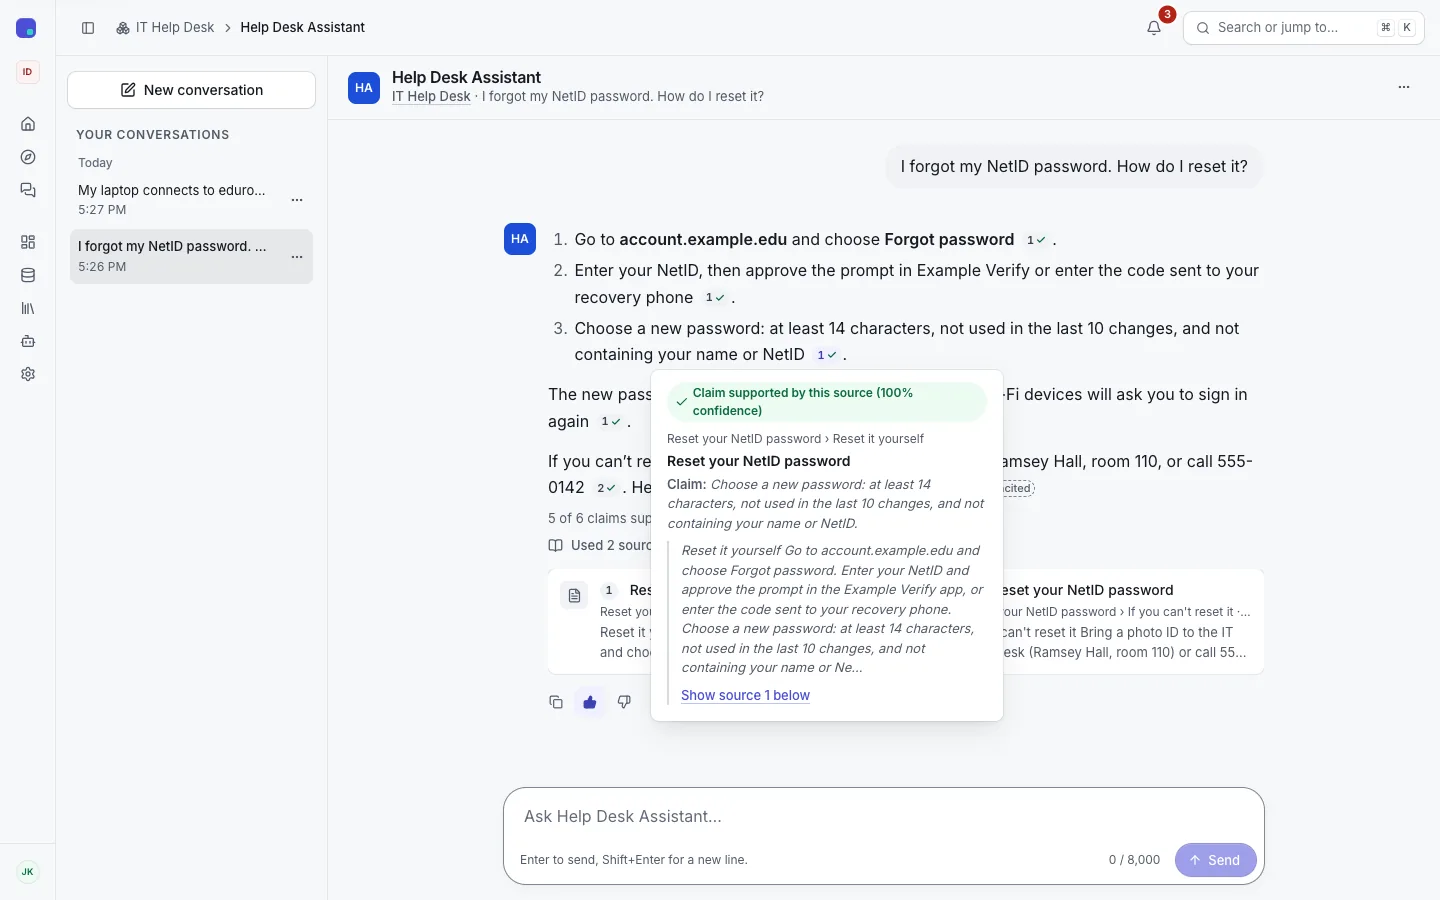
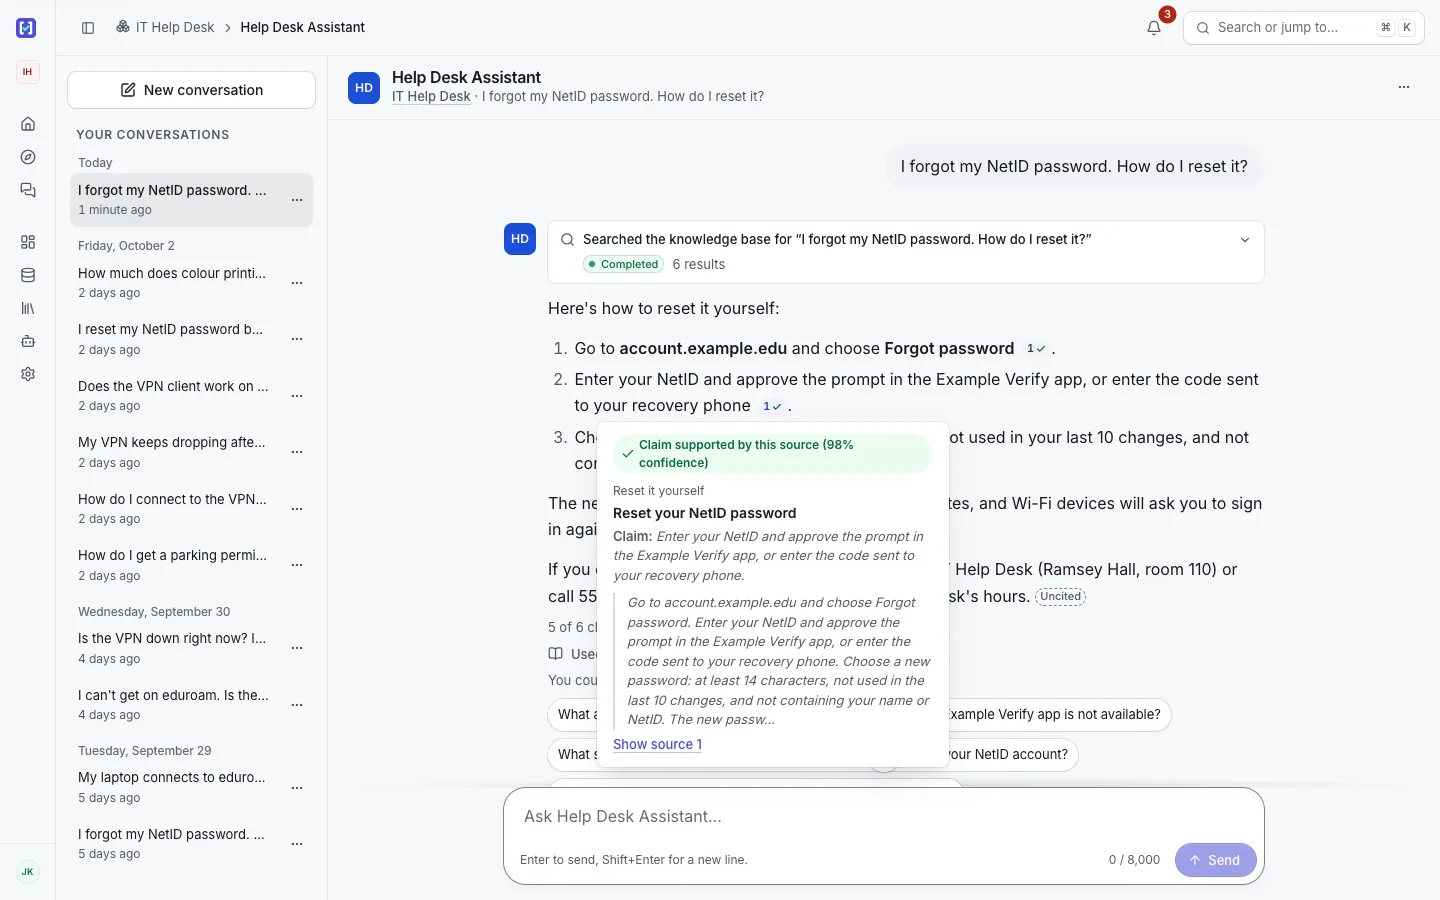
Screenshots for v0.4.2: a new dark-mode slot in Grounded answers (a chat answer in dark), and the hero's claim card, the agent Build tab, the admin Overview and Costs recaptured, alt text to match

Changed region(s): [[0.375, 0.2489, 0.875, 0.8711], [0.0625, 0.1867, 0.1875, 0.9644]]

diff --git a/app/page.tsx b/app/page.tsx
@@ -309,6 +309,7 @@ function Features() {
           <>
             <Screenshot slot="source-viewer" />
             <VerdictCard />
+            <Screenshot slot="dark-mode" />
           </>
         }
       />
